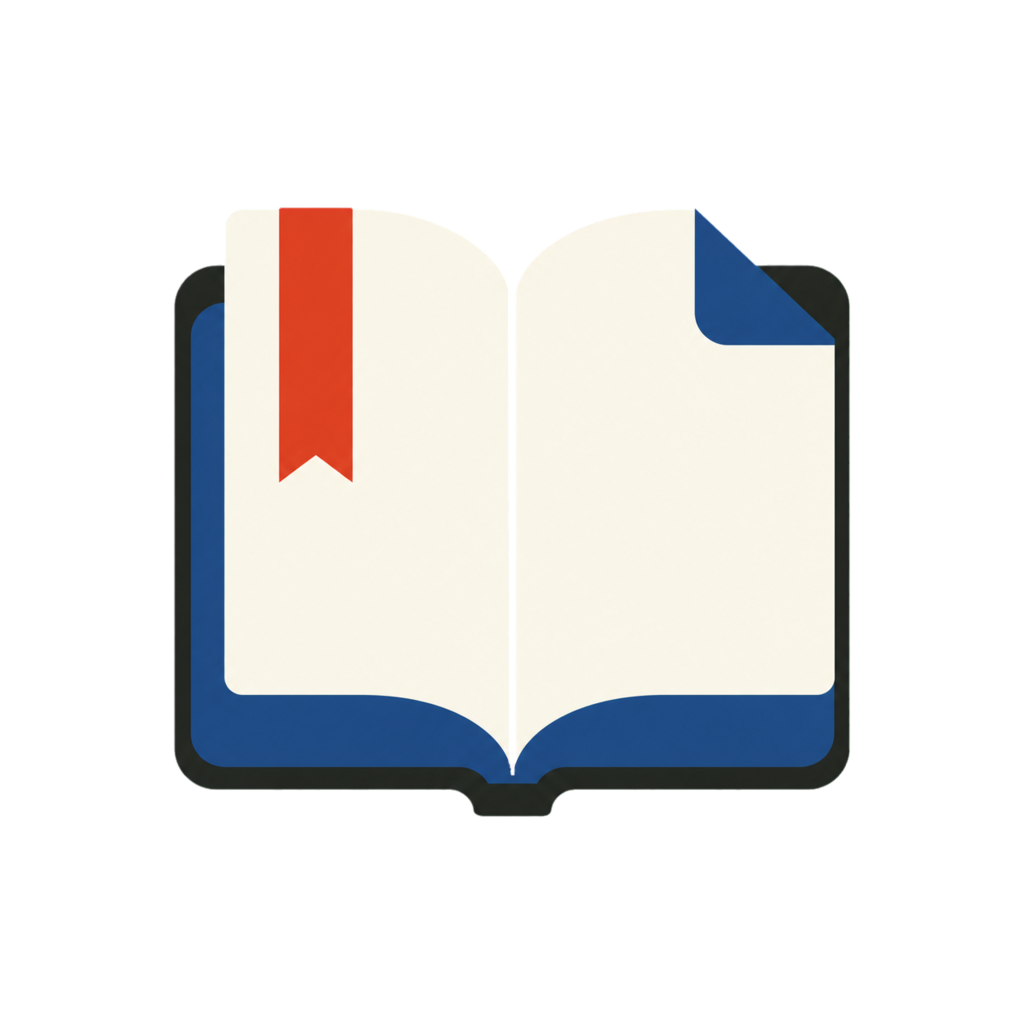
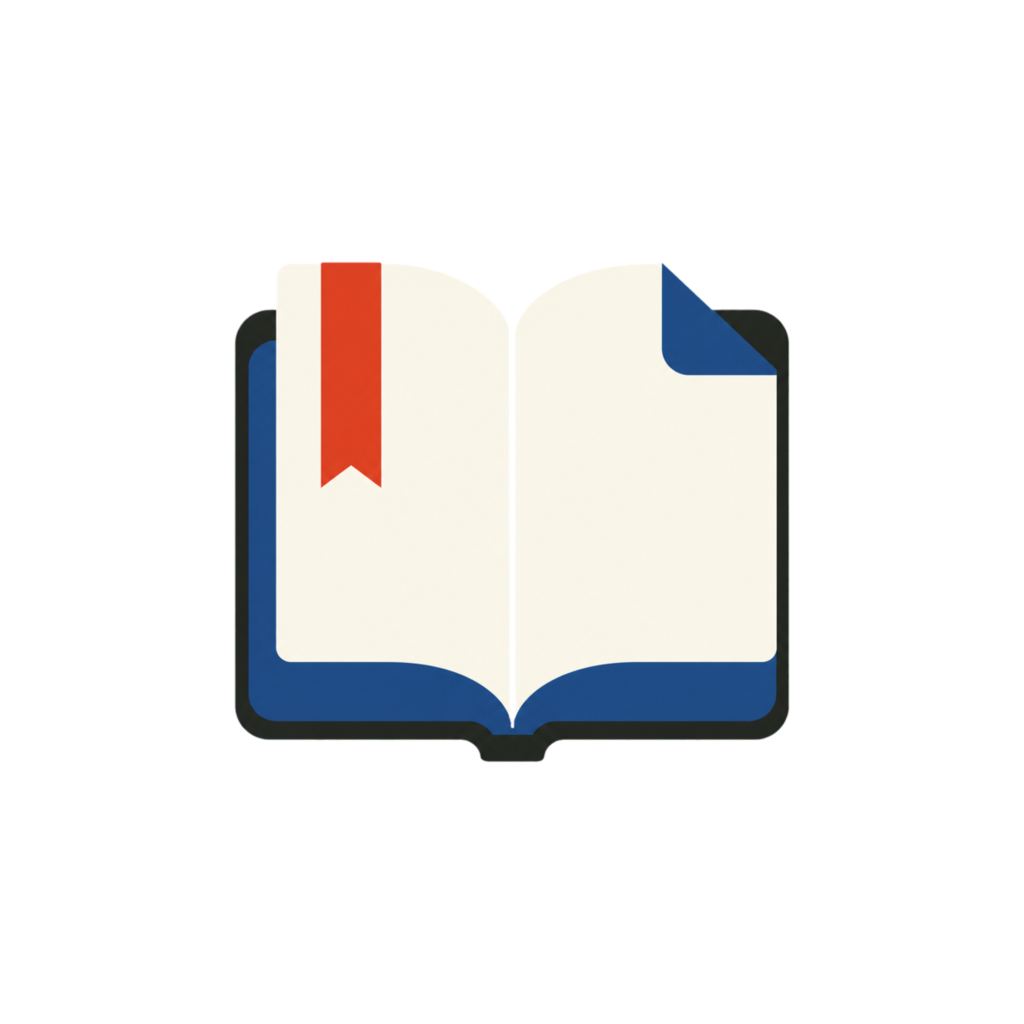
fix: アイコン余白とTTS本番設定を検証

Changed region(s): [[0.1562, 0.1875, 0.8438, 0.8125]]

diff --git a/docs/self-test-log.md b/docs/self-test-log.md
@@ -6,7 +6,7 @@
 
 Worker実装commit: `82289340a2b8d8c79e08ddaa80b56a3fb3f52719`
 
-Worker version: `862ec736-79e1-4fd9-9ab2-f28e349251fb`
+Worker version: `ee303860-c90c-40ce-87bf-9c23a8f210f8`
 
[1 lines of base64/hex data omitted]
 
@@ -48,6 +48,18 @@ APK証明書SHA-256: `24410654cbfb391f638346cceba9374179783be5afffc87287b204a64e
 - APK展開検査: `AIza` 0件、`sk-ant-` 0件、旧TTS環境変数名 0件、公開Worker URLあり
 - 互換性: Expo slug、URL scheme、Android package、保存キー、バックアップenvelopeは変更なし
 
+### アイコン余白・TTS復旧版 1.1.1
+
+- 実機発見: Androidの円形マスクでアダプティブアイコンの本が大きく見え、外周に詰まっていた
+- 修正: foreground／monochromeを従来比82%へ縮小し、表示領域を約678×612pxから556×502pxへ変更
+- package / version: `com.uta33.bookreader` / `1.1.1` (`versionCode 5`)
+- 署名: 1.1.0と同じ証明書SHA-256を実APKで確認
[1 lines of base64/hex data omitted]
+- ローカル成果物: `.expo/READING-NOTE-1.1.1-preview.apk`（git管理外）
+- 検証: `npm test`、Expo Doctor 20/20、ローカルEAS release build、APK v2署名、package/version
+- APK展開検査: `AIza` 0件
+- 公開Worker実通信: Google TTSを制限付きAPIキーで有効化し、匿名発行 → TTS音声生成 → 試験アカウント削除まで成功
+
 ## 自動preflight（2026-07-28）
 
 - [x] ルート／PWA／Workerの型検査とユニットテスト
@@ -72,7 +84,7 @@ APK証明書SHA-256: `24410654cbfb391f638346cceba9374179783be5afffc87287b204a64e
 ## 完全機能テストの開始ブロッカー
 
 - [ ] Anthropic Secret
-- [ ] Google TTS/Vision Secret
+- [x] Google TTS/Vision Secret（TTS/Visionだけに制限した既存キーをWorkerへ登録）
 - [ ] Google Web OAuth client ID/Secret
 - [ ] プライバシーポリシー問い合わせ先
 - [x] EASログインと既存keystore照合

diff --git a/docs/deployment.md b/docs/deployment.md
@@ -6,9 +6,9 @@
 - D1: `bookreader`（APAC）
 - KV: `JWKS_CACHE`
 - Cron: 毎日 `03:17 UTC`
-- 設定済みSecret: `AUTH_HMAC_SECRET`
+- 設定済みSecret: `AUTH_HMAC_SECRET`、`GOOGLE_TTS_API_KEY`
 - 検証済み実装commit: `82289340a2b8d8c79e08ddaa80b56a3fb3f52719`
-- 検証済みWorker version: `862ec736-79e1-4fd9-9ab2-f28e349251fb`
+- 検証済みWorker version: `ee303860-c90c-40ce-87bf-9c23a8f210f8`
 
 D1/KVの実IDは `worker/wrangler.jsonc` が正本。既存リソースを再作成しない。
 現在のWorker versionは次で確認する。
@@ -104,7 +104,8 @@ eas build --platform android --profile preview --local --non-interactive \
 
 2026-08-01にこの方法で1.0.2（versionCode 3）を生成し、1.0.1と証明書SHA-256が
 一致することを確認した。表示名とアイコンを更新した1.1.0（versionCode 4）も同じ鍵で
-生成し、証明書SHA-256の一致を確認した。
+生成し、証明書SHA-256の一致を確認した。アダプティブアイコンの余白を広げた1.1.1
+（versionCode 5）も同じ鍵で生成し、APK v2署名、パッケージ名、APIキー非混入を確認した。
 
 ## 一時D1への復元ドリル
 
